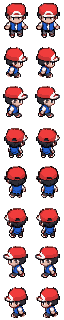
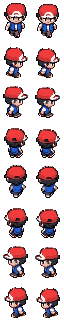
feat(combate): treinador anda fluido e fica em pe quando para
- Caminhada avanca pela DISTANCIA andada (5 px por quadro), e nao pelo
  relogio: o pe parava de escorregar e o passo acompanha a velocidade.
- Folga de 0,15 s antes de voltar a pose parada (sem pisca andar/parar) e
  direcao suavizada (a linha das 8 direcoes nao troca a cada quina de 1 px).
- Idle-Anim.png: pose EM PE montada da folha do dono (o quadro com os pes
  mais juntos, pernas puxadas pra baixo do corpo), segundo quadro com o
  tronco 1 px abaixo (respiracao). A folha original so tinha quadros de
  passo, e o parado usava um deles com a perna esticada. Nota 7.86.

diff --git a/src/render/treinadorEmCampo.ts b/src/render/treinadorEmCampo.ts
@@ -33,13 +33,26 @@ const DO_CENTRO_AO_CHAO = 8
 const SALTO = 120
 
 const QUADRO_L = 32, QUADRO_A = 40
-/** Linha do pe dentro do quadro (o gerador desenha o pe nela). */
+/** Linha do pe dentro do quadro. */
 const PE_NO_QUADRO = 37
+/**
+ * Px de caminho por quadro de caminhada (08/10, "movimentos fluidos"). A
+ * caminhada avanca pela DISTANCIA andada, e nao pelo relogio: com o relogio, o
+ * passo seguia no mesmo ritmo com o POKE devagar ou rapido, e o pe escorregava
+ * no chao. Por distancia, cada passo cobre sempre o mesmo chao.
+ */
+const PX_POR_QUADRO_DE_PASSO = 5
+/** Parado por pelo menos isto (s) pra voltar a pose em pe — sem pisca andar/parar. */
+const FOLGA_PRA_PARAR = 0.15
+/** Quanto a direcao segue o movimento por quadro (0..1): vira suave, sem tremer de linha. */
+const SUAVIZA_DIRECAO = 0.25
 
 interface Anim { url: string; duracoes: number[] }
 const ANIMS: Record<'Walk' | 'Idle', Anim> = {
   Walk: { url: 'assets/treinadores/campo/bone-vermelho/Walk-Anim.png', duracoes: [8, 8, 8, 8] },
-  Idle: { url: 'assets/treinadores/campo/bone-vermelho/Idle-Anim.png', duracoes: [40, 40] },
+  // Idle (08/10): pose EM PE montada da folha (pes juntos sob o corpo), e o
+  // segundo quadro desce o tronco 1 px — respiracao lenta.
+  Idle: { url: 'assets/treinadores/campo/bone-vermelho/Idle-Anim.png', duracoes: [50, 50] },
 }
 
 const imagens = new Map<string, HTMLImageElement>()
@@ -58,8 +71,10 @@ interface Estado {
   facing: Ponto
   anim: 'Walk' | 'Idle'
   quadro: number
-  /** Ticks (1/60 s) no quadro atual. */
+  /** Ticks (1/60 s) no quadro atual (Idle) ou px andados no quadro atual (Walk). */
   ticks: number
+  /** Segundos sem andar. */
+  parado: number
 }
 
 /** Distancia do centro do POKE ate o pe do treinador, medida ao longo do rastro. */
@@ -90,7 +105,7 @@ type PokeEmCampo = Ponto & { radius: number; facing?: Ponto }
  * mesmo boneco de um mundo pro outro a cada quadro.
  */
 export class TreinadorEmCampo {
-  private e: Estado = { rastro: [], pos: null, facing: { x: 0, y: 1 }, anim: 'Idle', quadro: 0, ticks: 0 }
+  private e: Estado = { rastro: [], pos: null, facing: { x: 0, y: 1 }, anim: 'Idle', quadro: 0, ticks: 0, parado: 0 }
 
   /** Pe do treinador agora (px de mundo), ou `null` se ele nao esta em campo. */
   get pe(): Ponto | null {
@@ -111,7 +126,7 @@ export class TreinadorEmCampo {
       rastro: [atras, { x: poke.x, y: poke.y }],
       pos: { x: atras.x, y: atras.y + DO_CENTRO_AO_CHAO },
       facing: { x: f.x / n, y: f.y / n },
-      anim: 'Idle', quadro: 0, ticks: 0,
+      anim: 'Idle', quadro: 0, ticks: 0, parado: 0,
     }
   }
 
@@ -143,15 +158,35 @@ export class TreinadorEmCampo {
     }
 
     const dx = e.pos.x - antes.x, dy = e.pos.y - antes.y
-    const andou = Math.hypot(dx, dy) > 0.05
-    const anim = andou ? 'Walk' : 'Idle'
-    if (andou) e.facing = { x: dx, y: dy }
+    const passo = Math.hypot(dx, dy)
+    const andou = passo > 0.05
+    if (andou) {
+      e.parado = 0
+      // Direcao suavizada: o rastro tem quinas de 1 px, e seguir cada uma fazia
+      // a linha do sprite (8 direcoes) trocar quadro a quadro.
+      const n = Math.hypot(e.facing.x, e.facing.y) || 1
+      e.facing = {
+        x: (e.facing.x / n) * (1 - SUAVIZA_DIRECAO) + (dx / passo) * SUAVIZA_DIRECAO,
+        y: (e.facing.y / n) * (1 - SUAVIZA_DIRECAO) + (dy / passo) * SUAVIZA_DIRECAO,
+      }
+    } else {
+      e.parado += dt
+    }
+    const anim = andou || (e.anim === 'Walk' && e.parado < FOLGA_PRA_PARAR) ? 'Walk' : 'Idle'
     if (anim !== e.anim) { e.anim = anim; e.quadro = 0; e.ticks = 0 }
-    e.ticks += dt * 60
     const duracoes = ANIMS[e.anim].duracoes
-    while (e.ticks >= duracoes[e.quadro]) {
-      e.ticks -= duracoes[e.quadro]
-      e.quadro = (e.quadro + 1) % duracoes.length
+    if (e.anim === 'Walk') {
+      e.ticks += passo
+      while (e.ticks >= PX_POR_QUADRO_DE_PASSO) {
+        e.ticks -= PX_POR_QUADRO_DE_PASSO
+        e.quadro = (e.quadro + 1) % duracoes.length
+      }
+    } else {
+      e.ticks += dt * 60
+      while (e.ticks >= duracoes[e.quadro]) {
+        e.ticks -= duracoes[e.quadro]
+        e.quadro = (e.quadro + 1) % duracoes.length
+      }
     }
   }
 

diff --git a/src/data/patchNotes.ts b/src/data/patchNotes.ts
@@ -12,6 +12,16 @@ export interface PatchNoteEntry {
 }
 
 export const PATCH_NOTES: PatchNoteEntry[] = [
+  // Treinador em campo: caminhada fluida e pose em pe.
+  {
+    version: '7.86',
+    date: '2026-10-08',
+    title: 'Treinador andando com naturalidade',
+    highlights: [
+      'A caminhada do treinador ficou fluida: o passo acompanha a velocidade e o pé não escorrega mais no chão.',
+      'Parado, o treinador fica em pé com as pernas retas e respira de leve, em vez de congelar no meio do passo.',
+    ],
+  },
   // Treinador em campo com a arte escolhida pelo dono.
   {
     version: '7.85',
